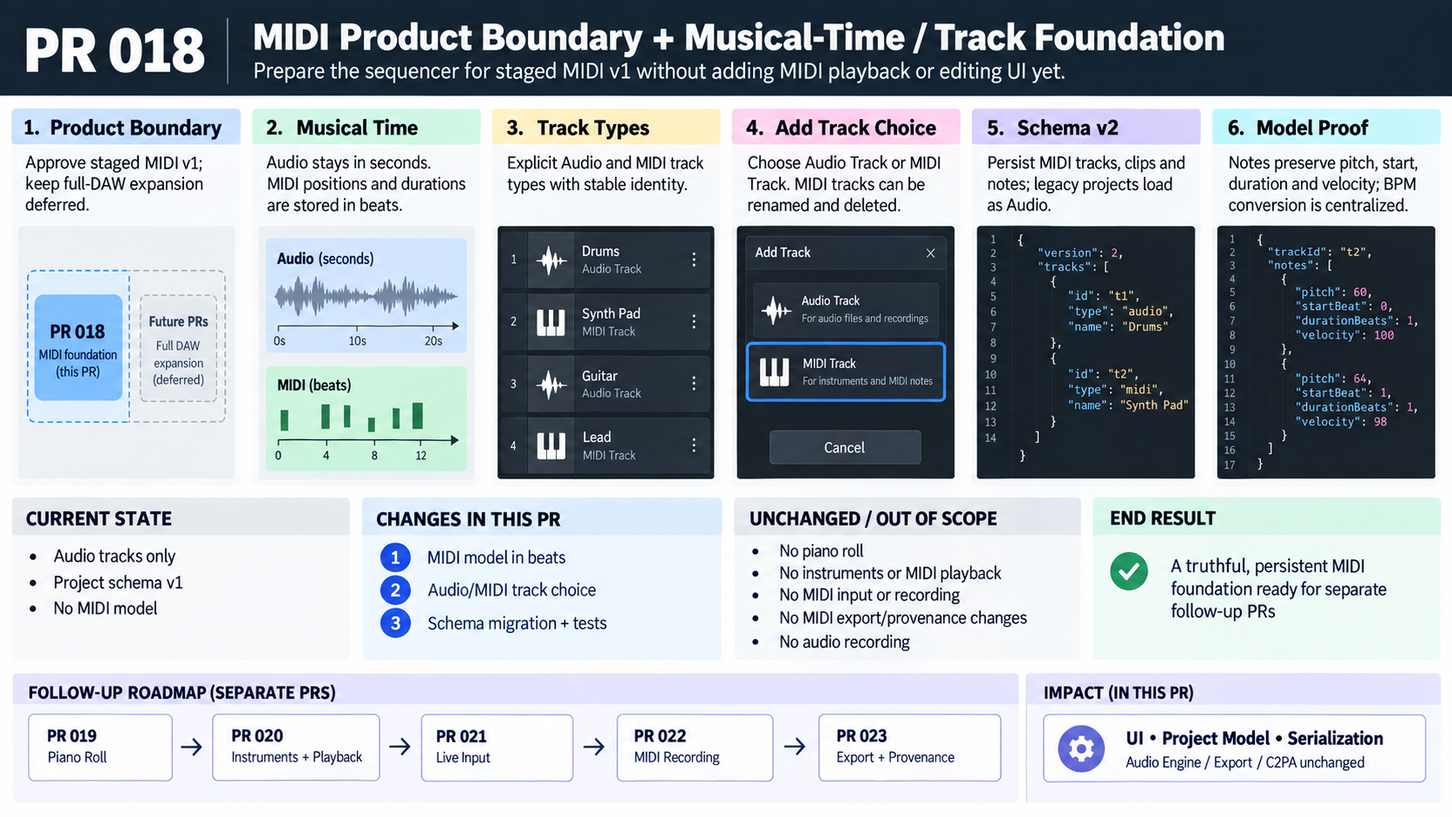
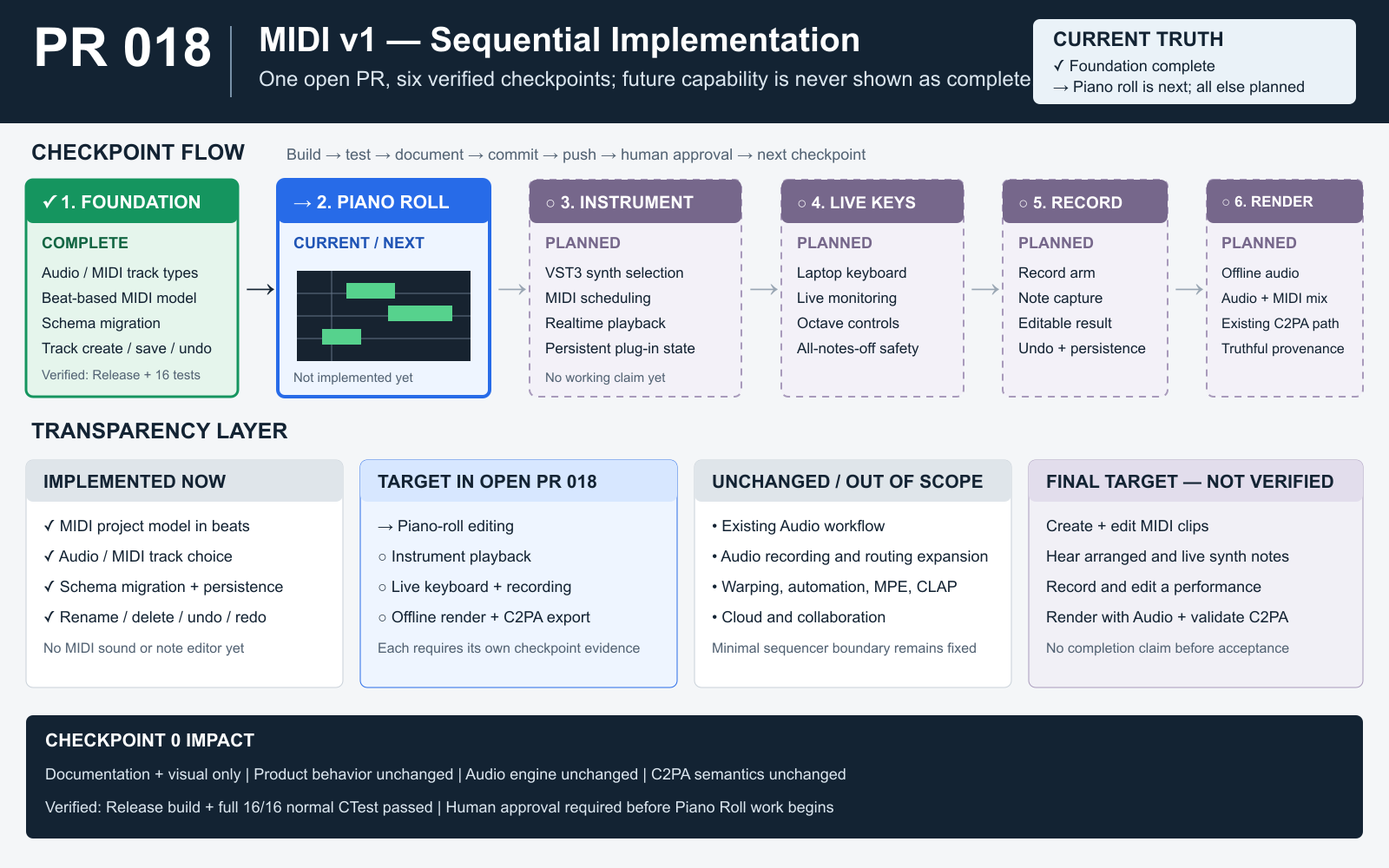
docs: reconcile PR 018 MIDI checkpoint scope

diff --git a/README.md b/README.md
@@ -13,11 +13,11 @@ The creative path remains primary: imported stems become a non-destructive arran
 
 ## Status
 
-The repository is in version 0.1 proof-of-concept development. PRs 001–005 provide the native macOS shell, audio transport, project bundles, stem import/playback, and focused Arrangement editing. PR 006 makes source Content Credentials validation automatic on import and makes normal Export a mandatory render → claim → sign → embed → reopen → validate pipeline for stereo 24-bit WAV. PR 008 adds one constrained VST3 audio-effect slot per track. PR 011 adds optional AudioWMark soft-binding authoring; PR 012 adds a separate perceptual-fingerprint binding and extends the same local resolver to demonstrate both discovery methods. PR 018 begins the approved MIDI v1 as a model/persistence foundation only.
+The repository is in version 0.1 proof-of-concept development. PRs 001–005 provide the native macOS shell, audio transport, project bundles, stem import/playback, and focused Arrangement editing. PR 006 makes source Content Credentials validation automatic on import and makes normal Export a mandatory render → claim → sign → embed → reopen → validate pipeline for stereo 24-bit WAV. PR 008 adds one constrained VST3 audio-effect slot per track. PR 011 adds optional AudioWMark soft-binding authoring; PR 012 adds a separate perceptual-fingerprint binding and extends the same local resolver to demonstrate both discovery methods. Open PR 018 is the umbrella MIDI v1 implementation: its verified foundation checkpoint is complete, while piano-roll editing, VST3 instrument playback, live keyboard input, MIDI recording, and instrument rendering remain planned checkpoints and must not be treated as implemented yet.
 
 ## Product boundary
 
-The product is an arrangement-based creative sequencer, not a full DAW. It supports multiple audio tracks, non-destructive clip editing, constrained VST3 effect hosting, stereo WAV export, and C2PA ingest/export. The approved staged MIDI v1 permits MIDI tracks/clips/notes, beat-based editing, VST3 instruments, live MIDI input/monitoring/recording, instrument playback/rendering, and truthful provenance work; PR 018 implements only track types, musical-time primitives, persistence, and Audio/MIDI track creation. Audio recording, warping, time stretching, automation lanes, complex routing, cloud storage, collaboration, CLAP hosting, and full-DAW expansion remain deferred.
+The product is an arrangement-based creative sequencer, not a full DAW. It supports multiple audio tracks, non-destructive clip editing, constrained VST3 effect hosting, stereo WAV export, and C2PA ingest/export. The approved MIDI v1 permits MIDI tracks/clips/notes, beat-based editing, VST3 instruments, laptop-keyboard input, monitoring/recording, instrument playback/rendering, and truthful provenance work. PR 018 delivers that scope through sequential, separately verified checkpoints inside one open pull request; only its track-type, musical-time, persistence, and Audio/MIDI track-creation foundation is implemented at the current checkpoint. Audio recording, warping, time stretching, automation lanes, complex routing, cloud storage, collaboration, CLAP hosting, and full-DAW expansion remain deferred.
 
 ## Architecture
 
@@ -40,7 +40,7 @@ The first configure downloads the exact JUCE, Tracktion Engine, `c2pa-cpp`, and 
 
 ## Arrangement controls
 
-Add sample roots with **Places → Add Folder…** and expand their folders. Select a supported audio file and click **Preview** to audition it without importing; **Stop** ends audition, starting another preview replaces the first, and dragging/importing stops preview automatically. Preview does not loop or alter arrangement transport, so **Space** remains play/pause for the arrangement. Drag supported audio directly to an Audio track and musical position; clips snap to beats by default, and holding **Option** bypasses snap. Drag a clip's compact header to move it, its edges to trim it, or its waveform body to select time; dragging empty track space also creates a time selection. Time edits are non-destructive: **Command-C/X/V/D** copy, cut, paste, or duplicate the selected clips or selected time fragments, **Command-A** selects all clips, and **Command-L** loops the exact time selection or selected-clip bounds. Paste targets the time selection first, then the insertion point, then the playhead. **+ Track** offers Audio Track or MIDI Track; both receive stable identity, rename/delete behavior, undo/redo, and save/reopen persistence. MIDI tracks are visibly labeled, but PR 018 intentionally provides no MIDI clip UI, piano roll, instrument, playback, mixer path, or recording. The vector close button deletes a track; populated or plug-in-bearing tracks require confirmation, and the final Audio track is protected. With no selection, **Loop** repeats the full arrangement; the active range is highlighted in the ruler. **Command-S** saves, and **Command-Z** / **Shift-Command-Z** undo and redo. **Delete** removes selected audio clips and **Command-E** splits them at the playhead. Use the zoom buttons, smooth pointer-anchored Command-scroll, or trackpad pinch to zoom; Shift-scroll moves horizontally and ordinary scroll moves vertically.
+Add sample roots with **Places → Add Folder…** and expand their folders. Select a supported audio file and click **Preview** to audition it without importing; **Stop** ends audition, starting another preview replaces the first, and dragging/importing stops preview automatically. Preview does not loop or alter arrangement transport, so **Space** remains play/pause for the arrangement. Drag supported audio directly to an Audio track and musical position; clips snap to beats by default, and holding **Option** bypasses snap. Drag a clip's compact header to move it, its edges to trim it, or its waveform body to select time; dragging empty track space also creates a time selection. Time edits are non-destructive: **Command-C/X/V/D** copy, cut, paste, or duplicate the selected clips or selected time fragments, **Command-A** selects all clips, and **Command-L** loops the exact time selection or selected-clip bounds. Paste targets the time selection first, then the insertion point, then the playhead. **+ Track** offers Audio Track or MIDI Track; both receive stable identity, rename/delete behavior, undo/redo, and save/reopen persistence. MIDI tracks are visibly labeled. At the current PR 018 checkpoint there is still no MIDI clip UI, piano roll, instrument, playback, mixer path, or recording; those are explicitly planned later checkpoints in the same open PR and must be verified before they are documented as working. The vector close button deletes a track; populated or plug-in-bearing tracks require confirmation, and the final Audio track is protected. With no selection, **Loop** repeats the full arrangement; the active range is highlighted in the ruler. **Command-S** saves, and **Command-Z** / **Shift-Command-Z** undo and redo. **Delete** removes selected audio clips and **Command-E** splits them at the playhead. Use the zoom buttons, smooth pointer-anchored Command-scroll, or trackpad pinch to zoom; Shift-scroll moves horizontally and ordinary scroll moves vertically.
 
 Each track header includes live gain and pan controls plus a narrow stereo post-processing level meter. Gain and pan update Tracktion's active volume plug-in throughout a drag without replacing the Edit, stopping transport, or moving the playhead; one completed drag becomes one persistent undo step. The meter reflects live signal after the hosted VST3 and track gain/pan, uses peak hold with a readable decay, and returns to silence when playback stops or the track is inaudible through Mute/Solo. Metering is display-only and is excluded from offline export processing.
 
@@ -54,7 +54,7 @@ Each track header has a **+ VST** control. Choose **Scan VST3** explicitly to in
 
 ## Known limitations
 
-The POC still has no audio recording, MIDI note editor/playback/instrument/recording path, warping, time stretching, automation, plug-in chains, advanced routing, plug-in sandboxing, or detailed plug-in/edit provenance. `io.github.jeremybboy.audiowmark.1` and `io.github.jeremybboy.audfprint.1` are experimental project identifiers, not official C2PA SBAL registrations; the resolver is SBR-inspired, not a conformant or production trust service, and recovery never proves the derivative satisfies the original hard binding. Fingerprint matching is probabilistic and can produce false positives or false negatives. The supplied C2PA Conformance credential is a **test credential only**, not the future production identity; external trust recognition depends on the verifier's trust configuration. The private PEM is stored outside projects and Git at `~/Library/Application Support/C2PA Creative Sequencer/Signing/signing-bundle.pem` with mode `0600` inside a `0700` directory. Added Places are machine-local, imported media is copied byte-for-byte into `Media/`, and editing remains non-destructive. On one Audio track, a later clip has priority in overlaps; different Audio tracks mix normally, and export uses that same arrangement.
+The POC still has no audio recording, warping, time stretching, automation, plug-in chains, advanced routing, plug-in sandboxing, or detailed plug-in/edit provenance. At the current PR 018 checkpoint, MIDI note editing, instrument playback, live input, recording, and rendering are planned but not yet implemented. `io.github.jeremybboy.audiowmark.1` and `io.github.jeremybboy.audfprint.1` are experimental project identifiers, not official C2PA SBAL registrations; the resolver is SBR-inspired, not a conformant or production trust service, and recovery never proves the derivative satisfies the original hard binding. Fingerprint matching is probabilistic and can produce false positives or false negatives. The supplied C2PA Conformance credential is a **test credential only**, not the future production identity; external trust recognition depends on the verifier's trust configuration. The private PEM is stored outside projects and Git at `~/Library/Application Support/C2PA Creative Sequencer/Signing/signing-bundle.pem` with mode `0600` inside a `0700` directory. Added Places are machine-local, imported media is copied byte-for-byte into `Media/`, and editing remains non-destructive. On one Audio track, a later clip has priority in overlaps; different Audio tracks mix normally, and export uses that same arrangement.
 
 ## Future work
 

diff --git a/docs/pr-overviews/PR-018-midi-foundation/implementation-brief.md b/docs/pr-overviews/PR-018-midi-foundation/implementation-brief.md
@@ -1,75 +1,87 @@
-# PR 018 — MIDI Product Boundary + Musical-Time / Track Foundation
+# PR 018 — MIDI v1: Piano Roll, Instruments, Live Input, Recording + Render
 
-![PR 018 visual overview](overview.png)
+![PR 018 checkpoint overview](overview.png)
 
 - **Repository:** `jeremybboy/c2pa-creative-sequencer`
 - **Base:** `main` after PR 017
 - **Branch:** `pr/018-midi-foundation`
 - **Pull request:** [#18](https://github.com/jeremybboy/c2pa-creative-sequencer/pull/18)
-- **Status snapshot:** local automated verification passed on 2026-09-28; open for human review and do not merge automatically
+- **Current checkpoint:** foundation complete; piano-roll editing is next
+- **Merge rule:** remain open and unmerged until all checkpoints and human acceptance pass
 
 ## Goal
 
-Introduce the smallest truthful project-model and UI foundation for a staged MIDI v1 while
-preserving the existing absolute-time audio workflow. This PR does not make MIDI audible or
-editable in the arrangement.
+Deliver one basic, usable MIDI v1 inside PR 018 through sequential checkpoint commits: create and
+edit MIDI clips, play them through a VST3 instrument, play and record from the laptop keyboard,
+render instrument output into the existing audio mix, and pass that mix through the existing C2PA
+export pipeline. Planned checkpoints are targets, not claims about current behavior.
 
 ## Transparency / change ledger
 
-| Area | PR 018 impact |
+| Area | Current PR 018 status |
 | --- | --- |
-| Current state | Projects contain Audio tracks and second-based audio clips only; there is no MIDI data model or explicit track type. |
-| User-visible change | **+ Track** offers Audio Track or MIDI Track; MIDI tracks have a distinct label/color and support rename, delete, undo/redo, and save/reopen. |
-| Code/data layers touched | Product boundary, project model, musical-time conversion, project serialization/migration, track creation/deletion UI, tests, and documentation. |
-| Explicitly untouched | Piano roll, MIDI clip/note UI, instruments, MIDI playback, input, monitoring, recording, audio recording, tempo maps, MIDI export, and MIDI provenance. |
-| Persistence/undo impact | Project schema 2 records explicit track types plus beat-based MIDI clips and notes; legacy schema-1 tracks load as Audio. Track creation/deletion uses the existing undoable project path. |
-| Audio/realtime impact | Existing Audio-track processing stays unchanged. MIDI tracks have no audio processor, meter, plug-in, or mixer behavior in this PR. |
-| C2PA/provenance impact | No claim, export, credential, soft-binding, or provenance-schema change. |
-| Verification evidence | Clean Release configure/build succeeded and the normal local CTest suite passed 16/16 in 33.31 seconds after the final UI correction and empty-MIDI-clip regression coverage. |
-| Human acceptance | Local launch verified Audio/MIDI creation, a distinct MIDI row with no fake audio controls, rename, save, and mixed-project reopen. User acceptance remains required for the complete workflow before merge. |
+| Current state | The foundation checkpoint is complete: explicit Audio/MIDI tracks, beat-based MIDI model, schema migration, and Audio/MIDI track creation/persistence. |
+| Target user-visible change | Complete a basic MIDI workflow through separately verified piano-roll, instrument, live-input, recording, and render/C2PA checkpoints. |
+| Code/data layers to touch | Project model, arrangement and piano-roll UI, Tracktion MIDI scheduling, VST3 instrument hosting, keyboard input, recording, offline render, tests, and documentation. |
+| Explicitly untouched | Audio recording, warping, time stretching, automation, complex routing, cloud services, MPE, CLAP, and full-DAW expansion. |
+| Persistence/undo impact | Foundation persistence and migration are complete. Each later editing/recording gesture must have explicit persistence and undo tests. |
+| Audio/realtime impact | None in the completed foundation. Later instrument/input checkpoints must prove realtime safety and preserve existing Audio behavior. |
+| C2PA/provenance impact | None in the completed foundation. The final checkpoint must reuse the existing export/sign/validate path and document MIDI/instrument output truthfully. |
+| Verification evidence | Foundation: clean Release build, 16/16 local tests, successful GitHub macOS check, and local Audio/MIDI track-create/rename/save/reopen checks. Later evidence is not yet available. |
+| Human acceptance | Required after every checkpoint and again for the complete end-to-end MIDI workflow before merge. |
 
-## Implemented foundation
+## IMPLEMENTED
 
-1. **Explicit track types** — each track persists as `audio` or `midi`; track identity remains
-   stable and type is never inferred from current contents.
-2. **Separate time domains** — Audio clips retain `startSeconds`, `sourceOffsetSeconds`, and
-   `lengthSeconds`; MIDI clip and note positions/durations are stored in beats.
-3. **Central conversion** — one constant-BPM musical-time converter maps beats to execution
-   seconds, leaving a clear replacement boundary for a later tempo map.
-4. **MIDI data model** — MIDI clips and notes preserve stable IDs, pitch, beat start, beat
-   duration, and velocity without adding a note editor.
-5. **Schema migration** — new saves use project schema 2; legacy schema-1 projects with no track
-   type load every track as Audio. The separate provenance schema remains version 1.
-6. **Track UX** — Audio and MIDI tracks can coexist; MIDI tracks are named sequentially and can
-   be renamed or deleted, while unsupported Audio operations are rejected rather than faked.
+- Explicit `Audio` and `MIDI` track types with stable identity.
+- Audio clips remain in seconds; MIDI clips and notes store positions and durations in beats.
+- Central constant-BPM beat/second conversion boundary.
+- MIDI clips/notes persist pitch, start, duration, velocity, and identity in project schema 2.
+- Legacy schema-1 tracks without a type load as Audio.
+- **+ Track** creates Audio or MIDI tracks; MIDI tracks support rename, delete, undo/redo, and
+  save/reopen without presenting fake audio controls.
+- Existing Audio tracks and clips coexist with the MIDI foundation.
 
-## Staged follow-up roadmap
+## NOT YET IMPLEMENTED
 
-- **PR 019:** piano-roll note creation and editing;
-- **PR 020:** VST3 instruments, MIDI scheduling, monitoring, and playback;
-- **PR 021:** computer-keyboard and external MIDI input;
-- **PR 022:** record arm and MIDI recording during transport;
-- **PR 023:** instrument rendering in export and truthful provenance semantics.
+1. **Current checkpoint — piano roll:** MIDI clip creation, note grid, note/velocity editing, and
+   arrangement editing of MIDI clips.
+2. **Planned — VST3 instrument:** instrument selection/state, MIDI scheduling, realtime playback.
+3. **Planned — live keyboard:** laptop-key mapping, monitoring, octave control, all-notes-off safety.
+4. **Planned — recording:** record arm, note capture during transport, editable recorded clips.
+5. **Planned — render + C2PA:** offline instrument audio in the mix and truthful integration with
+   the existing C2PA export pipeline.
 
-The detailed boundaries and acceptance criteria are recorded in
-[`docs/MIDI_ROADMAP.md`](../../MIDI_ROADMAP.md).
+## UNCHANGED
 
-## Manual acceptance before merge
+- Existing Audio clip editing, overlap priority, transport, mixer, metering, VST3 audio effects,
+  sample audition, and project behavior.
+- Existing signing credentials, C2PA ingest/export validation, AudioWMark, fingerprinting, and
+  local resolver behavior until the final integration checkpoint explicitly exercises export.
+- The product remains a minimal arrangement sequencer rather than a general-purpose DAW.
 
-1. Open an existing audio-only project and verify tracks, clips, playback, editing, and export are
-   unchanged.
-2. Add one Audio track and one MIDI track; confirm their type labels and sequential names.
-3. Rename the MIDI track, save, quit, reopen, and confirm order, identity, type, and name persist.
-4. Delete the MIDI track and verify undo/redo; verify the final Audio track remains protected.
-5. Confirm MIDI rows expose no fake piano roll, instrument, meter, playback, or record controls.
+## VERIFICATION
 
-Do not merge until automated verification and this human acceptance both pass.
+Checkpoint 1 foundation evidence already recorded:
 
-## Local verification evidence
-
-- clean Release app bundle: `build-pr018/C2PACreativeSequencer_artefacts/Release/C2PA Creative Sequencer.app`;
-- 16/16 normal CTest targets passed after the final MIDI-row layout change;
-- a temporary schema-2 project preserved five Audio tracks plus renamed MIDI track `Keys`;
-- a legacy schema-1 fixture with missing track types loaded as Audio in the project-model test;
-- external opt-in AudioWMark and audfprint runtime tests were not run because this PR changes no
+- clean Release configure/build succeeded;
+- normal local CTest suite passed 16/16 in 33.31 seconds;
+- GitHub macOS `build-and-test` completed successfully;
+- local launch verified Audio/MIDI creation, a truthful MIDI row, rename, save, and mixed-project
+  reopen;
+- opt-in AudioWMark/audfprint runtime tests were not run because the foundation did not change
   soft-binding behavior.
+
+Checkpoint 0 changes only documentation and the visual. Its fresh Release build succeeded and the
+final full normal CTest run passed 16/16 in 14.49 seconds. An initial sandboxed run could not bind
+the resolver's loopback port; on the first permission-corrected run, `export_pipeline` transiently
+segfaulted during device initialization after passing in the prior run. The isolated export test
+then passed, followed by the clean 16/16 full-suite result. No product code changed. No later
+checkpoint may begin until this checkpoint is pushed, reported, and explicitly approved by the
+human reviewer.
+
+## Planned final acceptance
+
+Create Audio and MIDI tracks, create/edit a MIDI clip in the piano roll, load a VST3 synth, hear
+arranged and live laptop-keyboard notes, record and edit a performance, manipulate MIDI clips,
+save/reopen, render Audio plus instrument output, and validate the result through the existing C2PA
+export pipeline. None of this end-to-end result is claimed until it is actually verified.

diff --git a/docs/MIDI_ROADMAP.md b/docs/MIDI_ROADMAP.md
@@ -1,39 +1,52 @@
-# MIDI v1 dependency sequence
+# PR 018 MIDI v1 checkpoint sequence
 
-PR 018 establishes only the product boundary, beat-based data model, serialization migration,
-and explicit Audio/MIDI track creation. The remaining MIDI v1 should proceed in this order so
-each layer can be tested without pretending that later capabilities already exist.
+PR 018 is the umbrella pull request for the complete basic MIDI v1. Work proceeds through the
+checkpoint commits below so each dependency can be reviewed and verified before the next begins.
+After each checkpoint: build Release, run focused tests and the full normal CTest suite, update the
+implementation brief and visual, push, report evidence, and wait for explicit human approval.
 
-## PR 019 — MIDI Clip + Piano Roll Editing
+Status legend: **COMPLETE** = implemented and verified; **CURRENT** = next authorized checkpoint;
+**PLANNED** = not implemented and must not be presented as working.
 
-- Create and open MIDI clips; show piano keyboard and note grid.
+## Checkpoint 1 — Foundation — COMPLETE
+
+- Explicit Audio/MIDI track types with stable identity.
+- Audio clips remain second-based; MIDI clips and notes are beat-based.
+- MIDI note pitch, start, duration, and velocity persist in project schema 2.
+- Legacy schema-1 tracks migrate to Audio.
+- Audio/MIDI track creation, rename, delete, undo/redo, and save/reopen.
+
+## Checkpoint 2 — MIDI Clip + Piano Roll Editing — CURRENT
+
+- Create and open MIDI clips; show a piano keyboard, beat grid, and velocity lane.
 - Draw, select, move, resize, delete, and velocity-edit notes.
 - Copy, paste, and duplicate notes.
-- Move, trim, and duplicate MIDI clips in the arrangement.
+- Move, trim, copy, paste, and duplicate MIDI clips in the arrangement.
 
-## PR 020 — VST3 Instrument Hosting + MIDI Playback
+## Checkpoint 3 — VST3 Instrument Hosting + MIDI Playback — PLANNED
 
-- Allow VST3 instruments on MIDI tracks and schedule project MIDI notes into Tracktion.
-- Use one deterministic test synth for realtime audible playback.
-- Use the same instrument path for offline rendering and persist instrument state.
+- Allow one VST3 instrument on a MIDI track and schedule project MIDI notes into Tracktion.
+- Use a deterministic test synthesizer for realtime audible playback.
+- Persist instrument identity/state and keep existing Audio effects behavior unchanged.
 
-## PR 021 — Live Keyboard + MIDI Monitoring
+## Checkpoint 4 — Live Laptop Keyboard + Monitoring — PLANNED
 
-- Map laptop keyboard input to note on/off with octave controls.
-- Route selected or armed MIDI tracks while transport runs.
-- Add stuck-note and all-notes-off safety.
+- Map laptop-keyboard input to MIDI note on/off with octave controls.
+- Route live notes to the selected or armed MIDI track while transport runs.
+- Add focus guards, stuck-note prevention, and all-notes-off safety.
 
-## PR 022 — MIDI Recording
+## Checkpoint 5 — MIDI Recording — PLANNED
 
 - Add record arm and capture incoming note events while transport runs.
-- Reconstruct note duration and commit one beat-based MIDI clip as one undoable action.
-- Support immediate playback and save/reopen.
+- Reconstruct note durations and commit the performance as one beat-based, undoable MIDI clip.
+- Support immediate playback, note editing, and save/reopen.
 
-## PR 023 — MIDI-to-Audio Export + Provenance
+## Checkpoint 6 — Instrument Rendering + C2PA Export — PLANNED
 
-- Verify realtime and offline instrument output agree.
-- Render MIDI instruments into the normal audio mix and preserve the C2PA export pipeline.
-- Define truthful provenance semantics without inventing unsupported C2PA assertions.
+- Render MIDI instruments through the normal offline audio mix.
+- Verify Audio and MIDI-instrument tracks coexist in playback and export.
+- Preserve the existing signing/validation pipeline and describe MIDI/instrument-originated output
+  truthfully without inventing unsupported C2PA assertions.
 
-CLAP hosting remains a separate later investigation. A CLAP fixture may inform that work, but it
-must not block MIDI v1.
+Audio recording, external MIDI hardware, tempo maps, CLAP, MPE, automation, warping, time
+stretching, advanced routing, and full-DAW expansion remain outside PR 018.

diff --git a/docs/pr-overviews/README.md b/docs/pr-overviews/README.md
@@ -9,7 +9,7 @@ snapshot retained to explain what was known when the overview was prepared.
 
 | PR | Overview | Status snapshot | Pull request |
 | --- | --- | --- | --- |
-| 018 | [MIDI Product Boundary + Musical-Time / Track Foundation](PR-018-midi-foundation/implementation-brief.md) · [Visual](PR-018-midi-foundation/overview.png) | Clean Release build and 16/16 normal tests passed; user acceptance pending on 2026-09-28 | [#18](https://github.com/jeremybboy/c2pa-creative-sequencer/pull/18) |
+| 018 | [MIDI v1 — sequential implementation](PR-018-midi-foundation/implementation-brief.md) · [Visual](PR-018-midi-foundation/overview.png) · [Editable SVG](PR-018-midi-foundation/overview.svg) | Foundation complete; piano roll is the next checkpoint; later MIDI capabilities are planned, not implemented | [#18](https://github.com/jeremybboy/c2pa-creative-sequencer/pull/18) |
 | 017 | [Arrangement Selection, Clipboard, Looping + Live Mixer Controls](PR-017-arrangement-editing/implementation-brief.md) · [Visual](PR-017-arrangement-editing/overview.png) | Local and GitHub automated acceptance passed; human acceptance pending on 2026-09-28 | [#17](https://github.com/jeremybboy/c2pa-creative-sequencer/pull/17) |
 
 ## Archive convention
@@ -17,7 +17,8 @@ snapshot retained to explain what was known when the overview was prepared.
 Each PR folder should contain:
 
 - `implementation-brief.md`: goal, change ledger, behavior, boundaries, test evidence, and manual acceptance;
-- `overview.png`: a synchronized visual that adds no behavior absent from the text brief.
+- `overview.svg`: editable visual source when practical;
+- `overview.png`: a synchronized rendered visual that adds no behavior absent from the text brief.
 
 Use `PR-NNN-short-name/` for folder names. Update both artifacts when scope changes; do not leave
 a stale graphic beside a corrected brief. Do not store application builds, test fixtures, source

diff --git a/AGENTS.md b/AGENTS.md
@@ -14,4 +14,4 @@ Do not claim that a build, launch, audio result, plug-in behavior, credential, s
 
 ## Scope guard
 
-Approved MIDI v1 work may add MIDI tracks/clips/notes, beat-based note timing, piano-roll editing, VST3 instruments, computer-keyboard or external MIDI input, monitoring, record arm, MIDI note recording during transport, instrument playback/rendering, and truthful provenance for MIDI/instrument-originated output. These capabilities must still arrive as independently reviewable slices; PR 018 is foundation-only. If an implementation seems to require audio recording, warping, time stretching, automation lanes, complex routing, cloud services, or another excluded subsystem, stop and redesign within scope rather than adding it.
+Approved MIDI v1 work may add MIDI tracks/clips/notes, beat-based note timing, piano-roll editing, VST3 instruments, computer-keyboard or external MIDI input, monitoring, record arm, MIDI note recording during transport, instrument playback/rendering, and truthful provenance for MIDI/instrument-originated output. PR 018 is the umbrella pull request for this MIDI v1, but every capability must arrive as a separate checkpoint commit: build, test, document, push, report, and wait for explicit human approval before the next checkpoint. The written implementation brief is authoritative; its visual must mark completed, current, and planned work without presenting future behavior as implemented. If an implementation seems to require audio recording, warping, time stretching, automation lanes, complex routing, cloud services, or another excluded subsystem, stop and redesign within scope rather than adding it.
